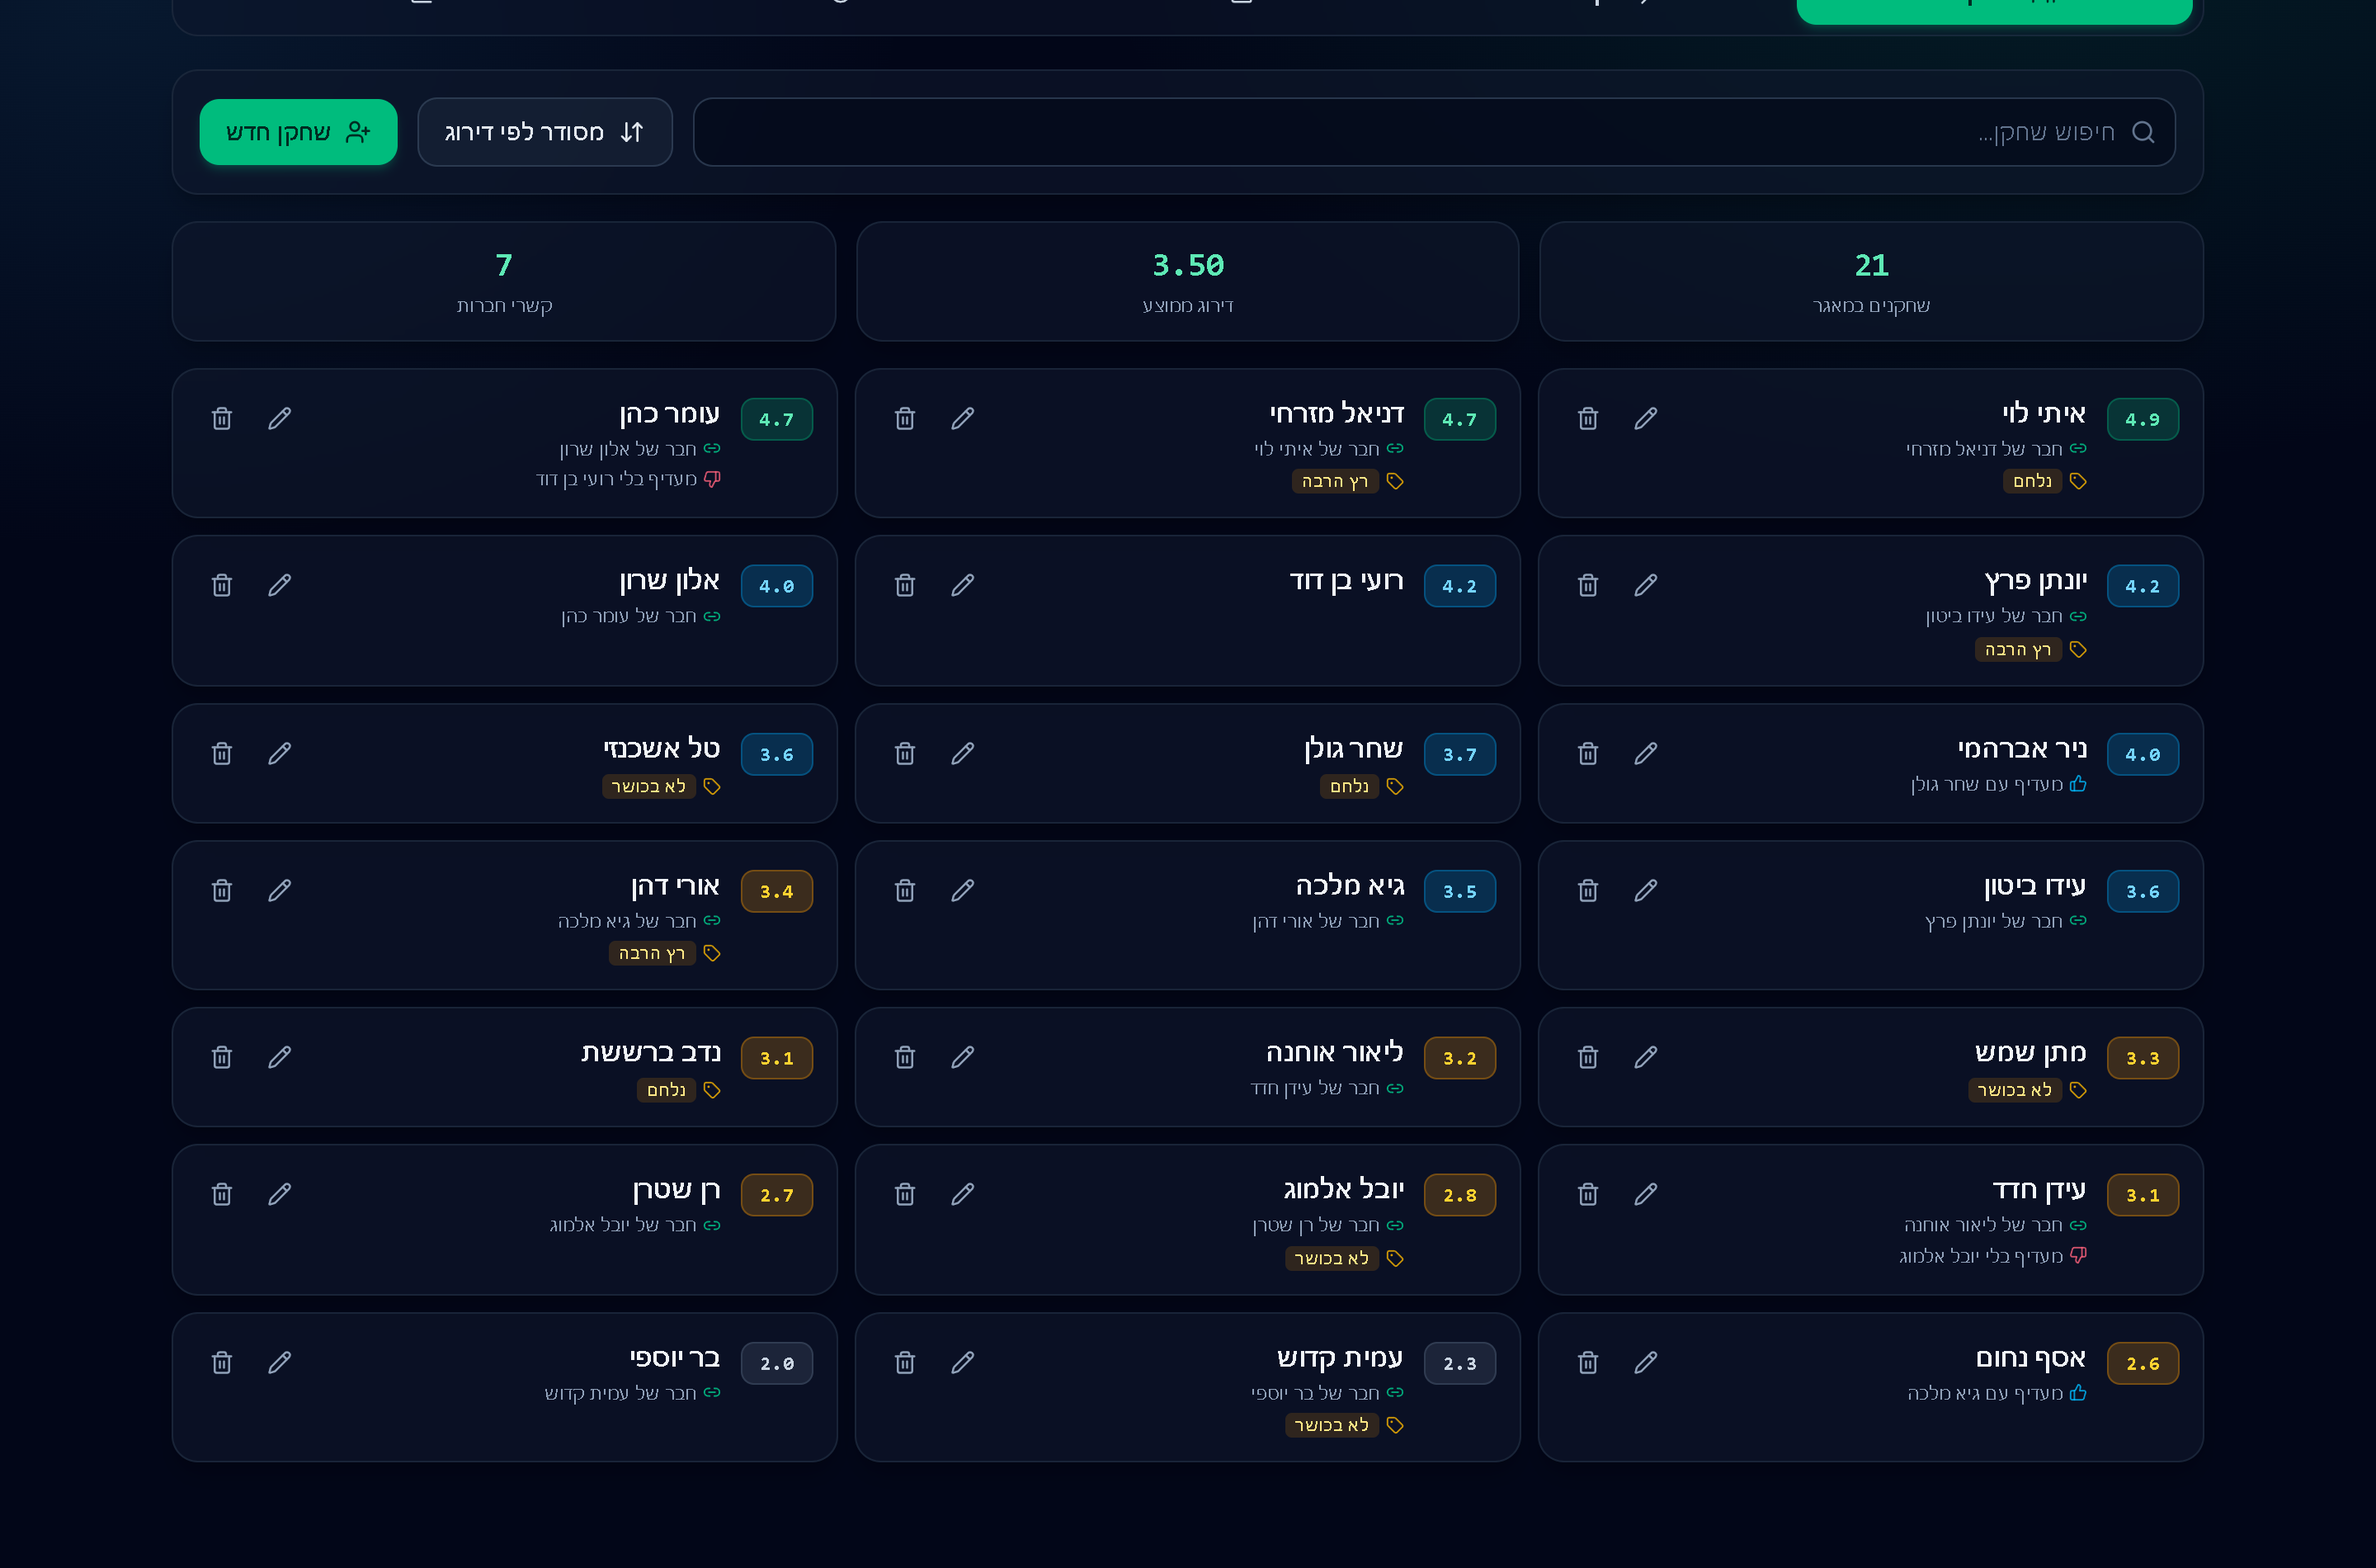
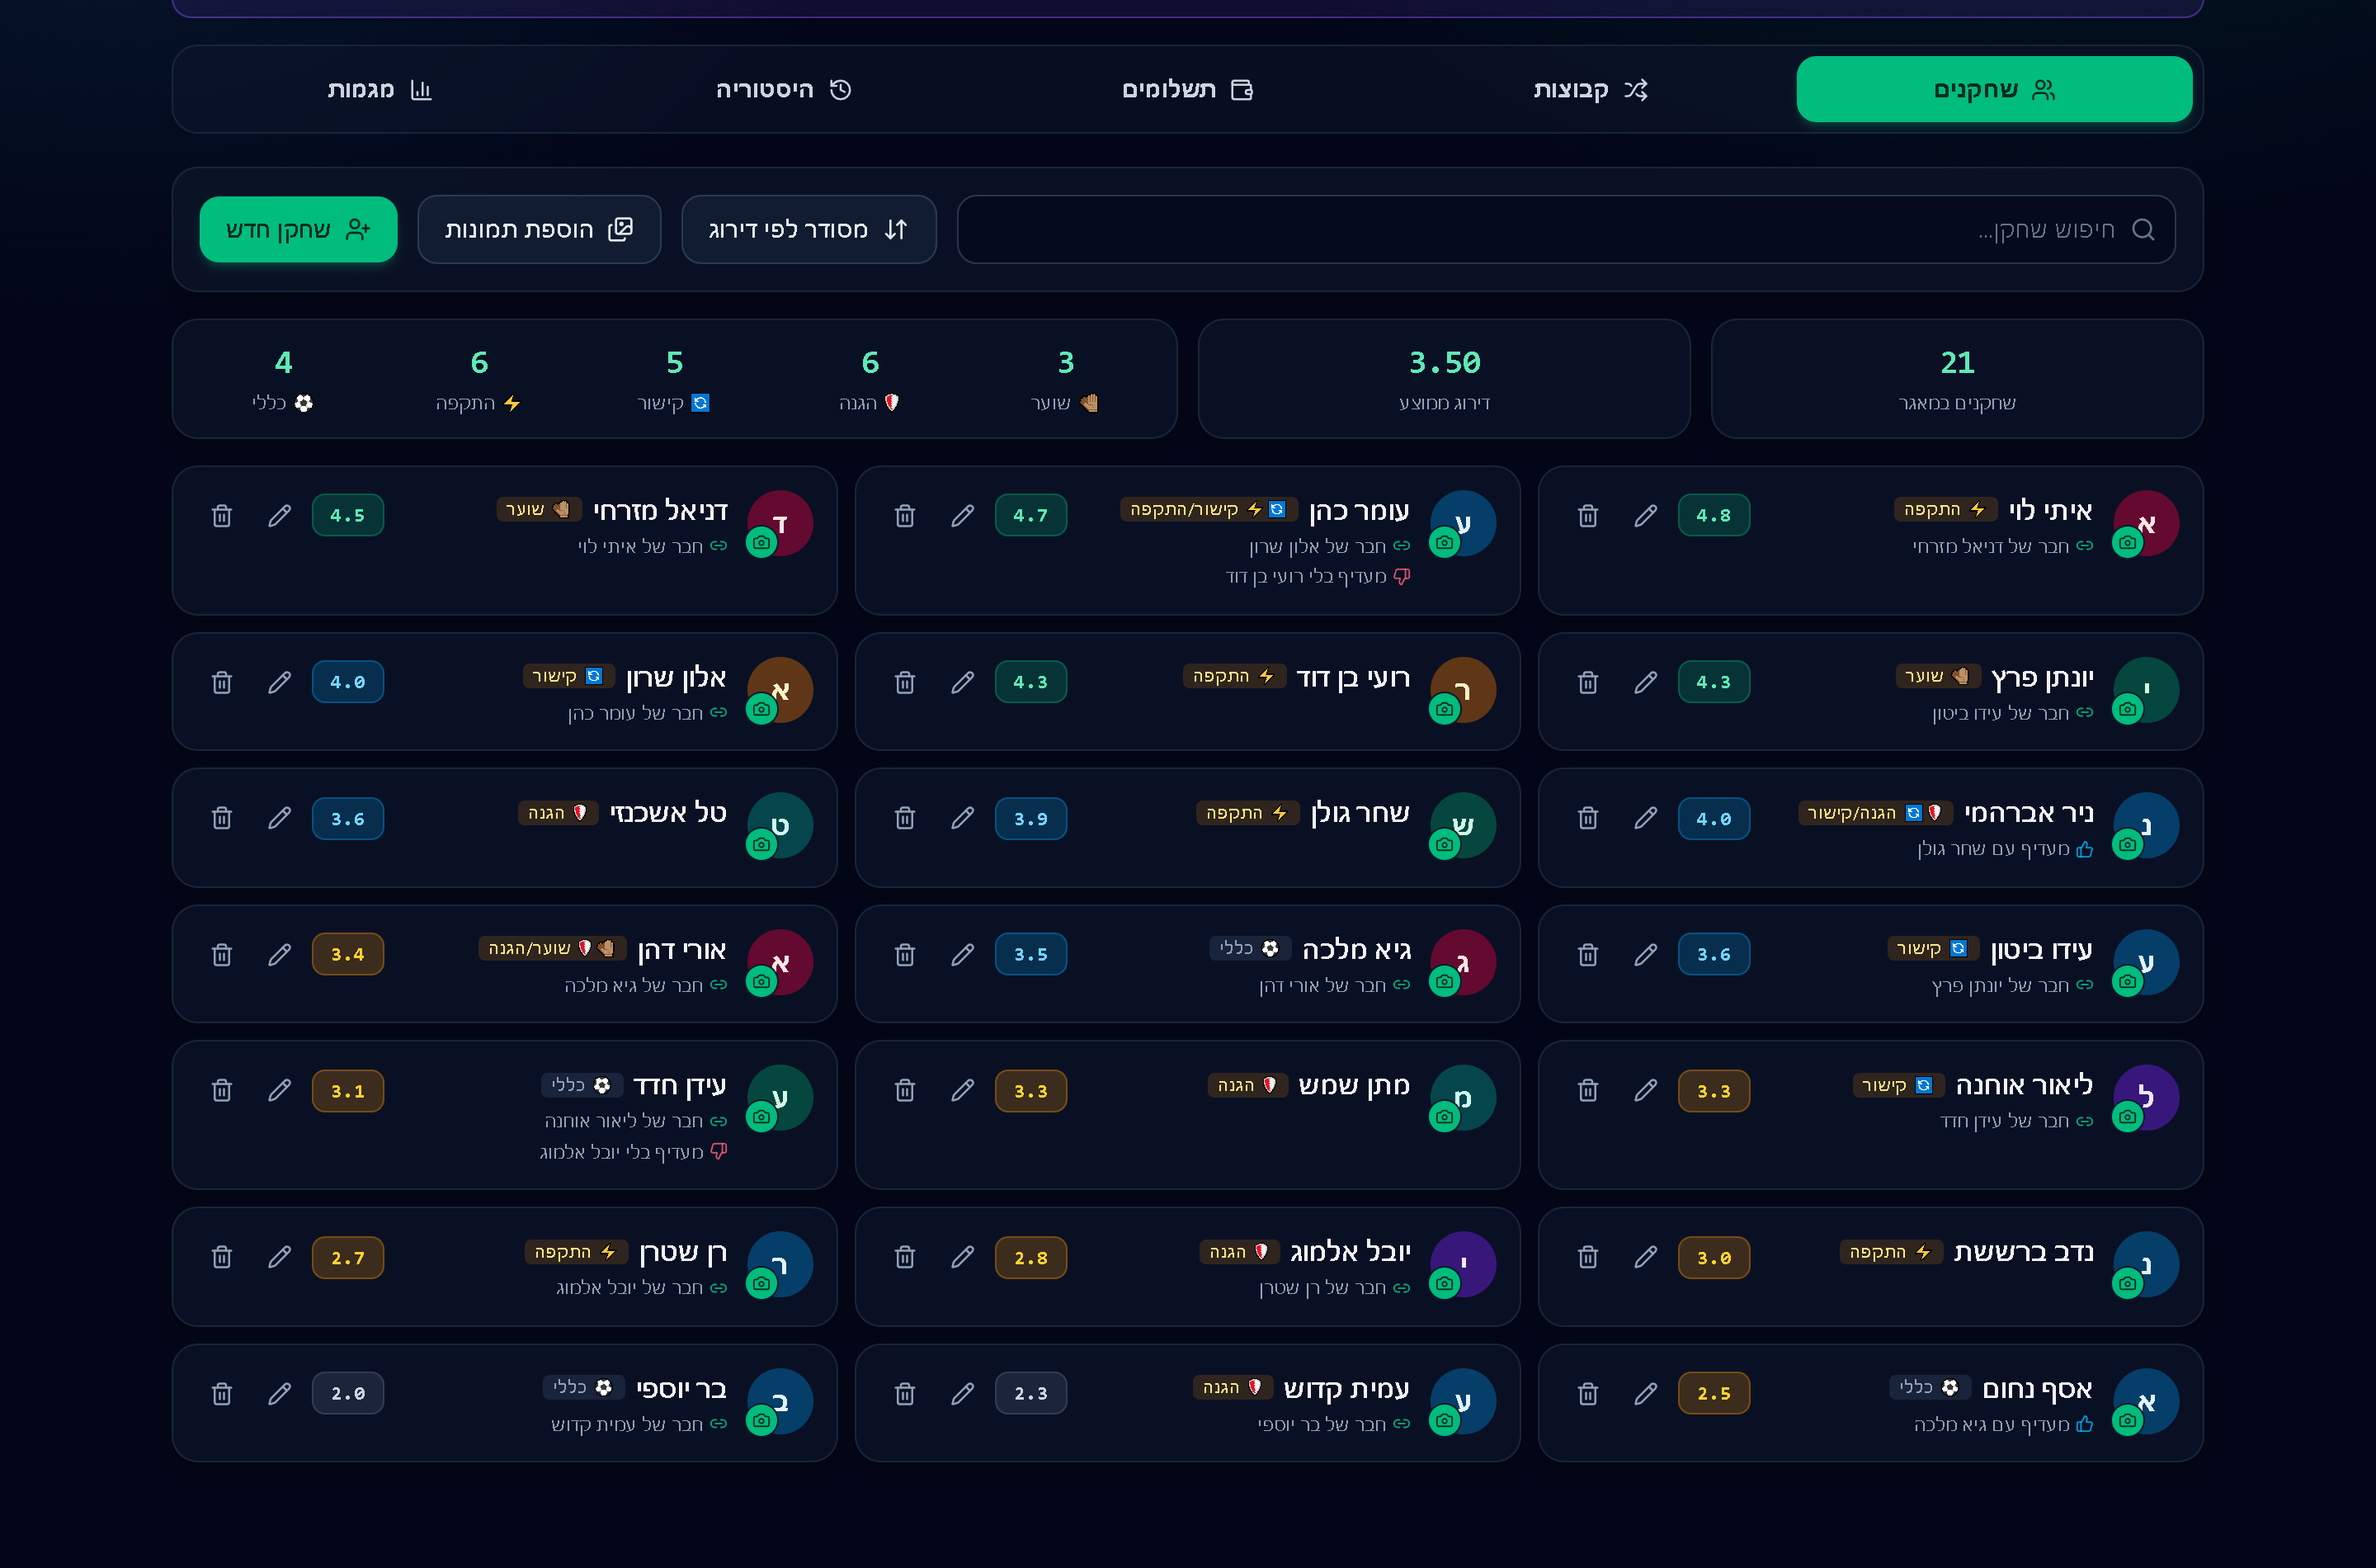
Show Teams FC's formations, helpers and photos, with fresh screenshots
The Teams FC entry stopped at late September and missed the formation work:
each team is now balanced against a formation for its size and drawn on a
pitch, and WhatsApp mode can send it as a formation too. It also missed
Google-only sign-in with helpers invited by Gmail, and player photos.

Several claims had gone stale and are corrected: tags were replaced by
positions, positions are a fixed rule of the draw rather than a ranked
criterion, game chemistry is on by default, and the rating-correction
simulation is rerun under the current rules (a middle finish scores 0).

The draw, squad and trends screenshots are retaken from demo mode at the same
2880x1900, and a WhatsApp formation screenshot is added.

diff --git a/src/data/projectsData.ts b/src/data/projectsData.ts
@@ -60,17 +60,21 @@ export const projects: Project[] = [
     tagline:
       "Builds balanced teams for a weekly football game out of whoever turned up, ready to paste into the group chat.",
     description:
-      "An installable PWA for organising a recurring football game. It keeps a squad with ratings, friendships and preferences, then splits the players who turned up into two or three balanced teams, explains what any manual edit broke, and exports the result straight into a WhatsApp group as text or an image. History, attendance trends and weekly payments are tracked alongside.",
+      "An installable PWA for organising a recurring football game. It keeps a squad with ratings, positions, photos, friendships and preferences, then splits the players who turned up into two or three balanced teams, lays each team out on a pitch in its formation, explains what any manual edit broke, and exports the result straight into a WhatsApp group as text or an image — as a plain list or as a formation. History, attendance trends and weekly payments are tracked alongside, and the organiser can invite helpers by Gmail to run the evening with them.",
     highlights: [
       "Balancing is a variant of the partition problem, solved heuristically: greedy construction with random noise, then hill-climbing over every pair swap, restarted 60 times in well under a second — half of that budget spent deliberately hunting for a different split rather than rediscovering the same optimum.",
       "Every restart is kept rather than only the cheapest: candidates within a per-criterion tolerance of the best — 0.05 on the average-rating gap — go into one pool, and the split that breaks up the most pairs from recent weeks wins. That is what makes \"draw again\" actually draw again.",
-      "Five weighted criteria — rating, friendships, learned pair chemistry, prefers-with/without affinity, and tag spread — each normalised to 0..1, with the priority order set in the UI and each rank worth roughly 6x the one below it.",
-      "Learned chemistry is derived rather than configured: pairs that win together more often than their individual records predict count as hidden strength, and the draw equalises each team's total rather than banning the pairing — a lone strong pair gets split, two of them end up one per side. Off by default until the history is long enough to mean anything.",
-      "Ratings correct themselves from recorded results: each player carries a gauge of +1 per win and -1 per loss, with a drawn evening scoring 0 so perfectly balanced weeks move nobody. Every third round with a result, a gauge at ±3 shifts the rating by 0.1 and is reduced by 3 rather than reset, so no one moves more than 0.1 per check. Over 400 simulated seasons, a player winning 70% of evenings instead of a third gains 0.89 in 40 rounds.",
+      "Four criteria the organiser orders in the UI — rating, friendships, learned pair chemistry and prefers-with/without affinity — each normalised to 0..1, with each rank worth roughly 6x the one below it. Two fixed rules sit straight after whichever criterion is on top: spreading strong and weak players evenly, and the formation.",
+      "Every team is measured against a formation for its size — a goalkeeper plus 3-2-1 for seven, 2-0-2 for five — and the draw counts who would play out of position. Inside the search loop that count is a maximum player-to-slot matching, computed through the min-cut over the 16 subsets of four positions, which is far cheaper than building the matching on every swap. Shortfalls the squad cannot avoid are not held against a split, but they are shared between the teams rather than piled onto one.",
+      "The pitch view places each player with the Hungarian algorithm: as many as possible in their own position, and anyone moved goes to the nearest line, so a spare striker drops to midfield rather than defence. Only players marked as keepers go in goal; a team without one shows the goal as rotating.",
+      "Learned chemistry is derived rather than configured: pairs that win together more often than their individual records predict count as hidden strength, and the draw equalises each team's total rather than banning the pairing — a lone strong pair gets split, two of them end up one per side. It contributes nothing until a pair has enough shared evenings to mean anything, then switches itself on.",
+      "Ratings correct themselves from recorded results: each player carries a gauge of +1 per win and -1 per loss, with a drawn evening — or a middle finish among three teams — scoring 0, so perfectly balanced weeks move nobody. Every third round with a result, a gauge at ±3 shifts the rating by 0.1 and is reduced by 3 rather than reset, so no one moves more than 0.1 per check. Over 4,000 simulated seasons, a player winning 70% of evenings (the rest split evenly between middle and last) gains about 0.7 in 40 rounds.",
+      "Sign-in is Google only, and the owner can invite helpers by Gmail: a helper can draw, record results and payments and add newcomers, but cannot edit or remove existing players — enforced by a Postgres trigger, not by hiding buttons. The one exception is the automatic 0.1 rating step, and every such move is recorded in the history where the owner sees it. Saves are conditional on the row's updated_at, so an owner and a helper editing at once cannot silently overwrite each other.",
+      "Player photos are cropped in the app and saved as a 224 px JPEG capped at about 30 KB inside the synced squad document; the full-size photo lives in its own table and loads only when someone taps the face.",
       "A demo mode loads 21 invented players with no sign-up, so the draw, history and trends can be tried from the landing screen; nothing is saved and a refresh resets it.",
       "No backend of its own — static files talking to Supabase directly, with access enforced by Postgres row-level security instead of client-side checks.",
       "Cross-device sync in three parts: load on sign-in, debounced save 900 ms after the last change, and a realtime channel; saves carry a data fingerprint so the app ignores the echo of its own write.",
-      "Squad and history are JSONB columns rather than modelled tables, so tags and per-player preferences shipped without touching the schema. The draw settings did need one added column — and the client detects its absence and retries without it, so anyone who never ran that migration keeps working.",
+      "Squad and history are JSONB columns rather than modelled tables, so positions, photos and per-player preferences shipped without touching the schema. The draw settings did need one added column — and the client detects its absence and retries without it, so anyone who never ran that migration keeps working.",
     ],
     stack: [
       "TypeScript",
@@ -90,14 +94,21 @@ export const projects: Project[] = [
     media: [
       {
         src: "/media/teams-fc/draw.png",
-        alt: "Three balanced teams after a draw — rated 24.5, 24.5 and 24.6, a 0.1 gap, with 5 of 7 friendships kept together",
+        alt: "Three balanced teams after a draw — rated 24.6, 24.5 and 24.5, a 0.1 gap — each laid out on a pitch in a 3-2-1 formation, with the one player moved out of position ringed in orange and the team without a keeper rotating in goal",
+        kind: "screenshot",
+        width: 2880,
+        height: 1900,
+      },
+      {
+        src: "/media/teams-fc/share.png",
+        alt: "WhatsApp mode: the same three teams drawn as formations with names only, and the message preview listing each team line by line from keeper to attack",
         kind: "screenshot",
         width: 2880,
         height: 1900,
       },
       {
         src: "/media/teams-fc/squad.png",
-        alt: "The squad screen: 21 players with ratings, friendships, prefers-with/without notes and free-text tags",
+        alt: "The squad screen: 21 players with ratings, positions, friendships and prefers-with/without notes, and a count of how many play in each position",
         kind: "screenshot",
         width: 2880,
         height: 1900,
